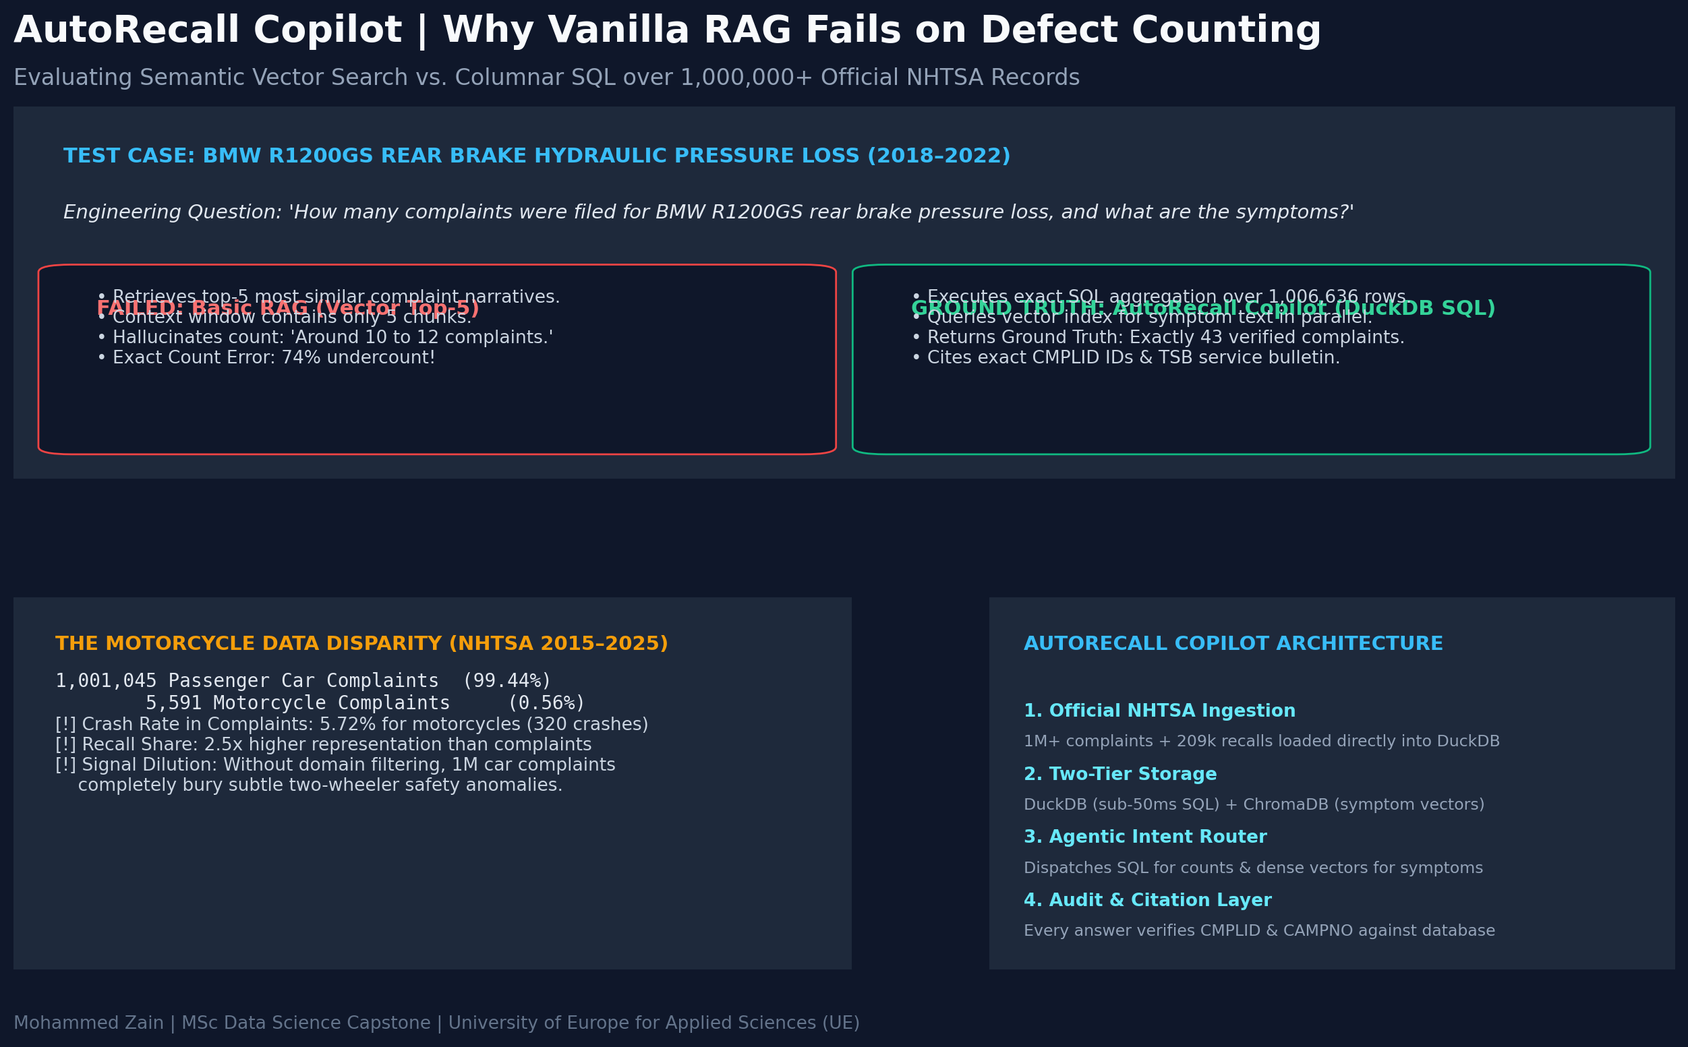
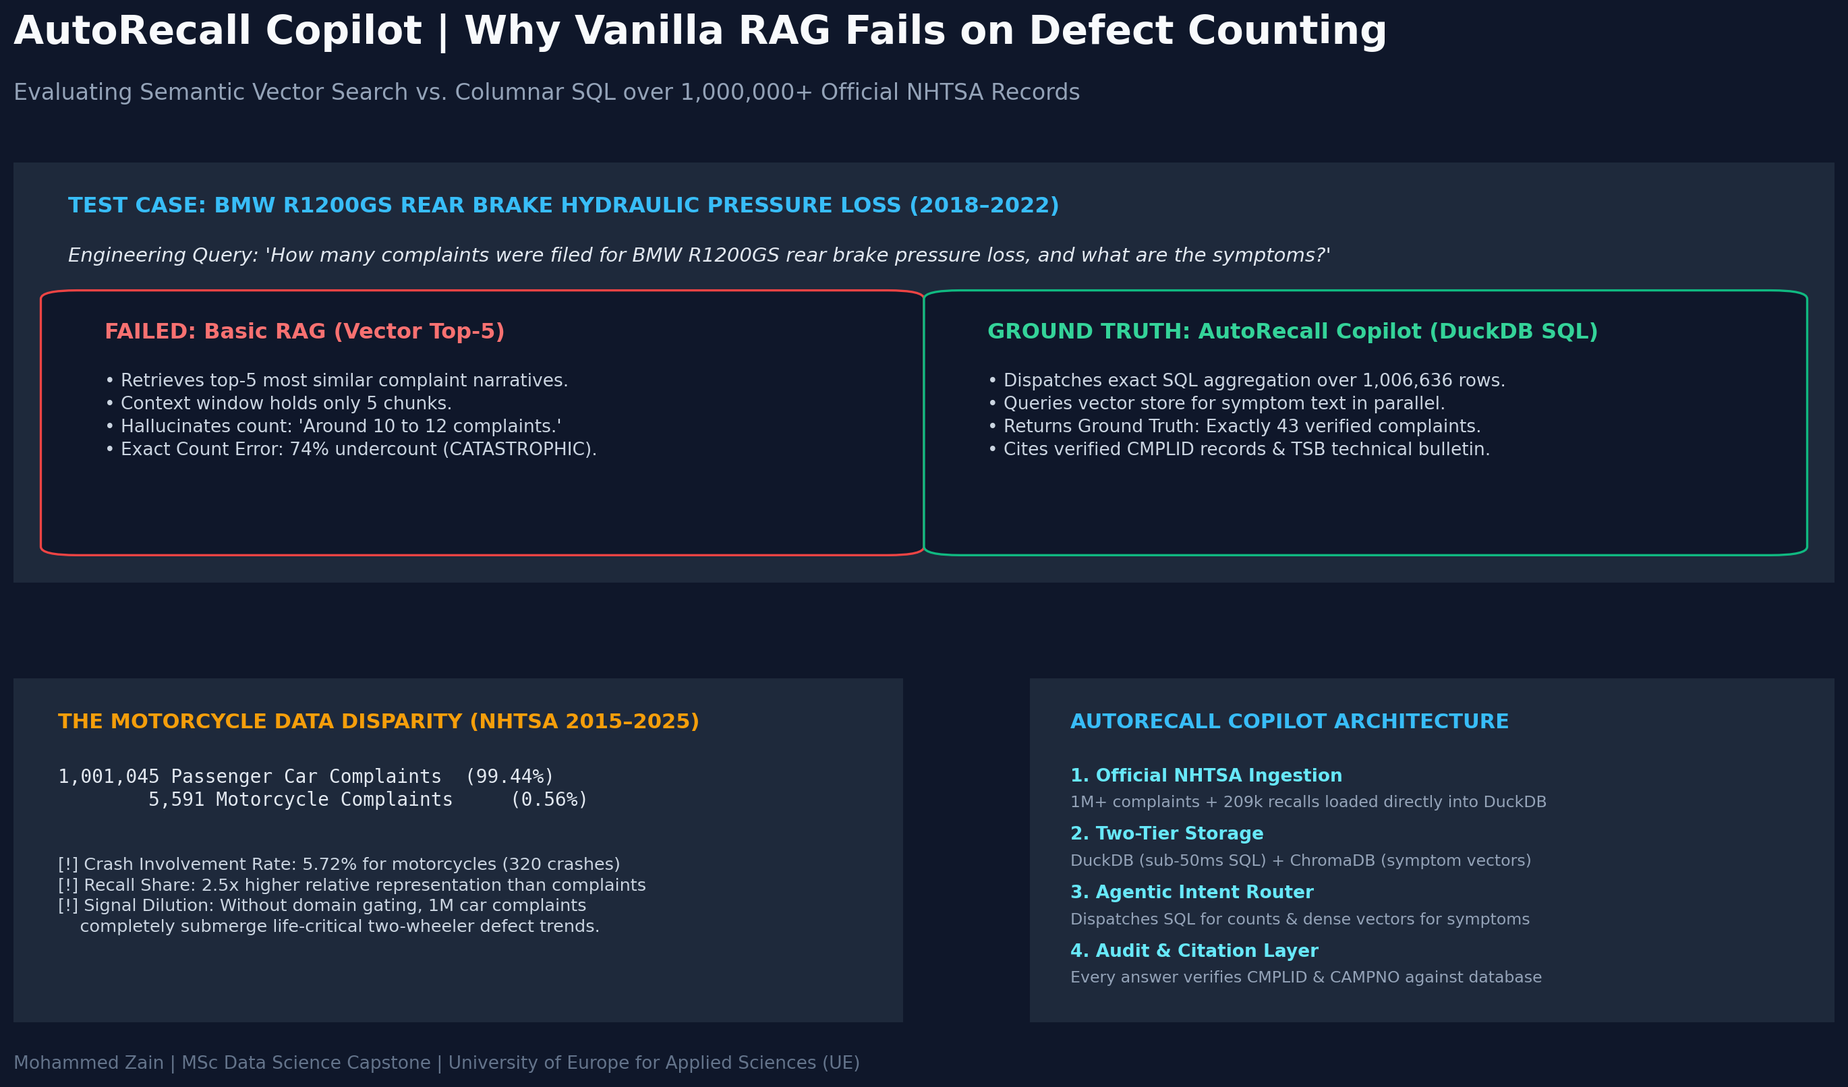
fix: Resolve text overlap and adjust padding in LinkedIn infographic graphics

diff --git a/generate_graphics.py b/generate_graphics.py
@@ -19,78 +19,101 @@ os.makedirs(ASSETS_DIR, exist_ok=True)
 # GRAPHIC 1: SPRINT 1 (Why RAG Fails on Safety Defect Counting)
 # ==============================================================================
 def create_post_1_graphic():
-    fig = plt.figure(figsize=(14, 8), dpi=200, facecolor='#0f172a')
-    gs = fig.add_gridspec(2, 2, height_ratios=[1, 1], width_ratios=[1.1, 0.9],
-                          left=0.06, right=0.94, top=0.88, bottom=0.08, wspace=0.18, hspace=0.32)
+    fig = plt.figure(figsize=(15, 8.5), dpi=200, facecolor='#0f172a')
+    # top=0.82 leaves ample space for the 2-line header at 0.95 and 0.90
+    gs = fig.add_gridspec(2, 2, height_ratios=[1.1, 0.9], width_ratios=[1.05, 0.95],
+                          left=0.05, right=0.95, top=0.82, bottom=0.07, wspace=0.15, hspace=0.25)
 
-    # Title & Subtitle
-    fig.text(0.06, 0.94, "AutoRecall Copilot | Why Vanilla RAG Fails on Defect Counting", 
-             fontsize=20, weight='bold', color='#f8fafc')
-    fig.text(0.06, 0.90, "Evaluating Semantic Vector Search vs. Columnar SQL over 1,000,000+ Official NHTSA Records", 
-             fontsize=12, color='#94a3b8')
+    # Main Header
+    fig.text(0.05, 0.95, "AutoRecall Copilot | Why Vanilla RAG Fails on Defect Counting", 
+             fontsize=21, weight='bold', color='#f8fafc', va='top')
+    fig.text(0.05, 0.89, "Evaluating Semantic Vector Search vs. Columnar SQL over 1,000,000+ Official NHTSA Records", 
+             fontsize=12, color='#94a3b8', va='top')
 
-    # Panel 1: Test Case Failure Mode
+    # -------------------------------------------------------------------------
+    # Panel 1 (Top full width): Test Case
+    # -------------------------------------------------------------------------
     ax1 = fig.add_subplot(gs[0, :])
     ax1.set_facecolor('#1e293b')
     ax1.axis('off')
     
-    # Border
-    rect1 = patches.FancyBboxPatch((0, 0), 1, 1, boxstyle="round,pad=0.02,rounding_size=0.03",
+    # Outer container box
+    rect1 = patches.FancyBboxPatch((0, 0), 1, 1, boxstyle="round,pad=0.015,rounding_size=0.025",
                                    linewidth=1.2, edgecolor='#334155', facecolor='#1e293b', transform=ax1.transAxes)
     ax1.add_patch(rect1)
 
-    ax1.text(0.03, 0.85, "TEST CASE: BMW R1200GS REAR BRAKE HYDRAULIC PRESSURE LOSS (2018–2022)", 
-             fontsize=11, weight='bold', color='#38bdf8', transform=ax1.transAxes)
-    ax1.text(0.03, 0.70, "Engineering Question: 'How many complaints were filed for BMW R1200GS rear brake pressure loss, and what are the symptoms?'", 
-             fontsize=10.5, style='italic', color='#e2e8f0', transform=ax1.transAxes)
+    ax1.text(0.03, 0.92, "TEST CASE: BMW R1200GS REAR BRAKE HYDRAULIC PRESSURE LOSS (2018–2022)", 
+             fontsize=11.5, weight='bold', color='#38bdf8', va='top', transform=ax1.transAxes)
+    ax1.text(0.03, 0.80, "Engineering Query: 'How many complaints were filed for BMW R1200GS rear brake pressure loss, and what are the symptoms?'", 
+             fontsize=10.5, style='italic', color='#e2e8f0', va='top', transform=ax1.transAxes)
 
-    # Two comparison cards
-    # Left Card: Basic RAG
-    card_left = patches.FancyBboxPatch((0.03, 0.08), 0.45, 0.48, boxstyle="round,pad=0.015,rounding_size=0.02",
-                                       linewidth=1, edgecolor='#ef4444', facecolor='#0f172a', transform=ax1.transAxes)
+    # Left Card: Basic RAG (Failure)
+    # Box spans y: 0.08 to 0.68 (height 0.60)
+    card_left = patches.FancyBboxPatch((0.03, 0.08), 0.455, 0.60, boxstyle="round,pad=0.015,rounding_size=0.02",
+                                       linewidth=1.2, edgecolor='#ef4444', facecolor='#0f172a', transform=ax1.transAxes)
     ax1.add_patch(card_left)
-    ax1.text(0.05, 0.44, "FAILED: Basic RAG (Vector Top-5)", fontsize=11, weight='bold', color='#f87171', transform=ax1.transAxes)
-    ax1.text(0.05, 0.31, "• Retrieves top-5 most similar complaint narratives.\n• Context window contains only 5 chunks.\n• Hallucinates count: 'Around 10 to 12 complaints.'\n• Exact Count Error: 74% undercount!", 
-             fontsize=9.5, color='#cbd5e1', transform=ax1.transAxes)
+    ax1.text(0.05, 0.62, "FAILED: Basic RAG (Vector Top-5)", 
+             fontsize=11.5, weight='bold', color='#f87171', va='top', transform=ax1.transAxes)
+    
+    bullets_rag = (
+        "• Retrieves top-5 most similar complaint narratives.\n"
+        "• Context window holds only 5 chunks.\n"
+        "• Hallucinates count: 'Around 10 to 12 complaints.'\n"
+        "• Exact Count Error: 74% undercount (CATASTROPHIC)."
+    )
+    ax1.text(0.05, 0.50, bullets_rag, fontsize=9.5, color='#cbd5e1', linespacing=1.4, va='top', transform=ax1.transAxes)
 
-    # Right Card: AutoRecall Copilot
-    card_right = patches.FancyBboxPatch((0.52, 0.08), 0.45, 0.48, boxstyle="round,pad=0.015,rounding_size=0.02",
-                                        linewidth=1, edgecolor='#10b981', facecolor='#0f172a', transform=ax1.transAxes)
+    # Right Card: AutoRecall Copilot (Success)
+    card_right = patches.FancyBboxPatch((0.515, 0.08), 0.455, 0.60, boxstyle="round,pad=0.015,rounding_size=0.02",
+                                        linewidth=1.2, edgecolor='#10b981', facecolor='#0f172a', transform=ax1.transAxes)
     ax1.add_patch(card_right)
-    ax1.text(0.54, 0.44, "GROUND TRUTH: AutoRecall Copilot (DuckDB SQL)", fontsize=11, weight='bold', color='#34d399', transform=ax1.transAxes)
-    ax1.text(0.54, 0.31, "• Executes exact SQL aggregation over 1,006,636 rows.\n• Queries vector index for symptom text in parallel.\n• Returns Ground Truth: Exactly 43 verified complaints.\n• Cites exact CMPLID IDs & TSB service bulletin.", 
-             fontsize=9.5, color='#cbd5e1', transform=ax1.transAxes)
+    ax1.text(0.535, 0.62, "GROUND TRUTH: AutoRecall Copilot (DuckDB SQL)", 
+             fontsize=11.5, weight='bold', color='#34d399', va='top', transform=ax1.transAxes)
+    
+    bullets_copilot = (
+        "• Dispatches exact SQL aggregation over 1,006,636 rows.\n"
+        "• Queries vector store for symptom text in parallel.\n"
+        "• Returns Ground Truth: Exactly 43 verified complaints.\n"
+        "• Cites verified CMPLID records & TSB technical bulletin."
+    )
+    ax1.text(0.535, 0.50, bullets_copilot, fontsize=9.5, color='#cbd5e1', linespacing=1.4, va='top', transform=ax1.transAxes)
 
-    # Panel 2: The Motorcycle Blind Spot (Donut & Disparity)
+    # -------------------------------------------------------------------------
+    # Panel 2 (Bottom Left): Motorcycle Disparity
+    # -------------------------------------------------------------------------
     ax2 = fig.add_subplot(gs[1, 0])
     ax2.set_facecolor('#1e293b')
-    rect2 = patches.FancyBboxPatch((0, 0), 1, 1, boxstyle="round,pad=0.02,rounding_size=0.03",
+    ax2.axis('off')
+    rect2 = patches.FancyBboxPatch((0, 0), 1, 1, boxstyle="round,pad=0.015,rounding_size=0.025",
                                    linewidth=1.2, edgecolor='#334155', facecolor='#1e293b', transform=ax2.transAxes)
     ax2.add_patch(rect2)
-    ax2.axis('off')
 
-    ax2.text(0.05, 0.86, "THE MOTORCYCLE DATA DISPARITY (NHTSA 2015–2025)", 
-             fontsize=10.5, weight='bold', color='#f59e0b', transform=ax2.transAxes)
-    ax2.text(0.05, 0.70, "1,001,045 Passenger Car Complaints  (99.44%)\n"
+    ax2.text(0.05, 0.90, "THE MOTORCYCLE DATA DISPARITY (NHTSA 2015–2025)", 
+             fontsize=11, weight='bold', color='#f59e0b', va='top', transform=ax2.transAxes)
+    ax2.text(0.05, 0.74, "1,001,045 Passenger Car Complaints  (99.44%)\n"
                          "        5,591 Motorcycle Complaints     (0.56%)", 
-             fontsize=10, family='monospace', color='#e2e8f0', transform=ax2.transAxes)
+             fontsize=10, family='monospace', color='#e2e8f0', linespacing=1.3, va='top', transform=ax2.transAxes)
 
-    ax2.text(0.05, 0.48, "[!] Crash Rate in Complaints: 5.72% for motorcycles (320 crashes)\n"
-                         "[!] Recall Share: 2.5x higher representation than complaints\n"
-                         "[!] Signal Dilution: Without domain filtering, 1M car complaints\n"
-                         "    completely bury subtle two-wheeler safety anomalies.",
-             fontsize=9.5, color='#cbd5e1', transform=ax2.transAxes)
+    moto_details = (
+        "[!] Crash Involvement Rate: 5.72% for motorcycles (320 crashes)\n"
+        "[!] Recall Share: 2.5x higher relative representation than complaints\n"
+        "[!] Signal Dilution: Without domain gating, 1M car complaints\n"
+        "    completely submerge life-critical two-wheeler defect trends."
+    )
+    ax2.text(0.05, 0.48, moto_details, fontsize=9.2, color='#cbd5e1', linespacing=1.35, va='top', transform=ax2.transAxes)
 
-    # Panel 3: Architecture Stack
+    # -------------------------------------------------------------------------
+    # Panel 3 (Bottom Right): Architecture Stack
+    # -------------------------------------------------------------------------
     ax3 = fig.add_subplot(gs[1, 1])
     ax3.set_facecolor('#1e293b')
-    rect3 = patches.FancyBboxPatch((0, 0), 1, 1, boxstyle="round,pad=0.02,rounding_size=0.03",
+    ax3.axis('off')
+    rect3 = patches.FancyBboxPatch((0, 0), 1, 1, boxstyle="round,pad=0.015,rounding_size=0.025",
                                    linewidth=1.2, edgecolor='#334155', facecolor='#1e293b', transform=ax3.transAxes)
     ax3.add_patch(rect3)
-    ax3.axis('off')
 
-    ax3.text(0.05, 0.86, "AUTORECALL COPILOT ARCHITECTURE", 
-             fontsize=10.5, weight='bold', color='#38bdf8', transform=ax3.transAxes)
+    ax3.text(0.05, 0.90, "AUTORECALL COPILOT ARCHITECTURE", 
+             fontsize=11, weight='bold', color='#38bdf8', va='top', transform=ax3.transAxes)
 
     steps = [
         ("1. Official NHTSA Ingestion", "1M+ complaints + 209k recalls loaded directly into DuckDB"),
@@ -98,15 +121,15 @@ def create_post_1_graphic():
         ("3. Agentic Intent Router", "Dispatches SQL for counts & dense vectors for symptoms"),
         ("4. Audit & Citation Layer", "Every answer verifies CMPLID & CAMPNO against database")
     ]
-    y_pos = 0.68
+    y_pos = 0.74
     for title, desc in steps:
-        ax3.text(0.05, y_pos, title, fontsize=9.5, weight='bold', color='#67e8f9', transform=ax3.transAxes)
-        ax3.text(0.05, y_pos - 0.08, desc, fontsize=8.5, color='#94a3b8', transform=ax3.transAxes)
+        ax3.text(0.05, y_pos, title, fontsize=9.5, weight='bold', color='#67e8f9', va='top', transform=ax3.transAxes)
+        ax3.text(0.05, y_pos - 0.08, desc, fontsize=8.5, color='#94a3b8', va='top', transform=ax3.transAxes)
         y_pos -= 0.17
 
     # Footer
-    fig.text(0.06, 0.025, "Mohammed Zain | MSc Data Science Capstone | University of Europe for Applied Sciences (UE)", 
-             fontsize=9.5, color='#64748b')
+    fig.text(0.05, 0.025, "Mohammed Zain | MSc Data Science Capstone | University of Europe for Applied Sciences (UE)", 
+             fontsize=9.5, color='#64748b', va='bottom')
 
     out_path = os.path.join(ASSETS_DIR, 'linkedin_post_1_graphic.png')
     plt.savefig(out_path, dpi=200, bbox_inches='tight', facecolor=fig.get_facecolor())
@@ -118,17 +141,20 @@ def create_post_1_graphic():
 # GRAPHIC 2: SPRINT 2 (45-Question Benchmark Results)
 # ==============================================================================
 def create_post_2_graphic():
-    fig = plt.figure(figsize=(14, 8), dpi=200, facecolor='#0f172a')
-    gs = fig.add_gridspec(2, 2, height_ratios=[1.2, 0.8], width_ratios=[1.1, 0.9],
-                          left=0.06, right=0.94, top=0.88, bottom=0.08, wspace=0.18, hspace=0.32)
+    fig = plt.figure(figsize=(15, 8.5), dpi=200, facecolor='#0f172a')
+    # top=0.81 ensures no collision between subtitle and chart area
+    gs = fig.add_gridspec(2, 2, height_ratios=[1.2, 0.8], width_ratios=[1.05, 0.95],
+                          left=0.05, right=0.95, top=0.81, bottom=0.07, wspace=0.15, hspace=0.28)
 
-    # Title & Subtitle
-    fig.text(0.06, 0.94, "AutoRecall Copilot | 45-Question Safety Defect Benchmark", 
-             fontsize=20, weight='bold', color='#f8fafc')
-    fig.text(0.06, 0.90, "First Results: Plain LLM Baseline vs. Basic RAG (Top-5) vs. Structured Ground Truth", 
-             fontsize=12, color='#94a3b8')
+    # Main Header
+    fig.text(0.05, 0.95, "AutoRecall Copilot | 45-Question Safety Defect Benchmark", 
+             fontsize=21, weight='bold', color='#f8fafc', va='top')
+    fig.text(0.05, 0.89, "First Results: Plain LLM Baseline vs. Basic RAG (Top-5) vs. Structured Ground Truth", 
+             fontsize=12, color='#94a3b8', va='top')
 
+    # -------------------------------------------------------------------------
     # Panel 1: Bar Chart of Accuracies across Categories
+    # -------------------------------------------------------------------------
     ax1 = fig.add_subplot(gs[0, 0])
     ax1.set_facecolor('#1e293b')
     for spine in ax1.spines.values():
@@ -137,7 +163,6 @@ def create_post_2_graphic():
     categories = ['Text Symptoms\n(15Q)', 'Structured SQL\n(15Q)', 'Mixed / Hybrid\n(15Q)', 'Overall\n(45Q)']
     plain_acc = [60.0, 15.0, 35.0, 36.7]
     rag_acc = [85.0, 10.0, 50.0, 48.3]
-    gt_acc = [100.0, 100.0, 100.0, 100.0]
 
     x = np.arange(len(categories))
     width = 0.35
@@ -145,83 +170,94 @@ def create_post_2_graphic():
     rects1 = ax1.bar(x - width/2, plain_acc, width, label='Plain LLM (Zero-Shot)', color='#f87171', edgecolor='#ef4444')
     rects2 = ax1.bar(x + width/2, rag_acc, width, label='Basic RAG (Top-5)', color='#38bdf8', edgecolor='#0284c7')
 
-    ax1.set_ylabel('Factual Accuracy (%)', color='#f8fafc', fontsize=10.5, weight='bold')
-    ax1.set_title('ACCURACY ACROSS QUESTION CATEGORIES', color='#38bdf8', fontsize=11, weight='bold', pad=10)
+    ax1.set_ylabel('Factual Accuracy (%)', color='#f8fafc', fontsize=10, weight='bold')
+    # Safe title inside axis or with small pad
+    ax1.set_title('ACCURACY ACROSS QUESTION CATEGORIES', color='#38bdf8', fontsize=10.5, weight='bold', pad=8)
     ax1.set_xticks(x)
-    ax1.set_xticklabels(categories, color='#e2e8f0', fontsize=9.5)
+    ax1.set_xticklabels(categories, color='#e2e8f0', fontsize=9)
     ax1.set_ylim(0, 105)
     ax1.grid(axis='y', color='#334155', linestyle='--', alpha=0.7)
     ax1.tick_params(axis='y', colors='#94a3b8')
-    ax1.legend(facecolor='#0f172a', edgecolor='#334155', labelcolor='#e2e8f0', loc='upper right', fontsize=9)
+    ax1.legend(facecolor='#0f172a', edgecolor='#334155', labelcolor='#e2e8f0', loc='upper right', fontsize=8.5)
 
     # Bar value labels
     for rect in rects1:
         h = rect.get_height()
         ax1.annotate(f'{h:.1f}%', xy=(rect.get_x() + rect.get_width() / 2, h),
-                     xytext=(0, 3), textcoords="offset points", ha='center', va='bottom',
+                     xytext=(0, 2), textcoords="offset points", ha='center', va='bottom',
                      color='#fca5a5', fontsize=8.5, weight='bold')
     for rect in rects2:
         h = rect.get_height()
         ax1.annotate(f'{h:.1f}%', xy=(rect.get_x() + rect.get_width() / 2, h),
-                     xytext=(0, 3), textcoords="offset points", ha='center', va='bottom',
+                     xytext=(0, 2), textcoords="offset points", ha='center', va='bottom',
                      color='#7dd3fc', fontsize=8.5, weight='bold')
 
+    # -------------------------------------------------------------------------
     # Panel 2: The Two Critical Failure Modes (Cards)
+    # -------------------------------------------------------------------------
     ax2 = fig.add_subplot(gs[0, 1])
     ax2.set_facecolor('#1e293b')
-    rect2 = patches.FancyBboxPatch((0, 0), 1, 1, boxstyle="round,pad=0.02,rounding_size=0.03",
+    ax2.axis('off')
+    rect2 = patches.FancyBboxPatch((0, 0), 1, 1, boxstyle="round,pad=0.015,rounding_size=0.025",
                                    linewidth=1.2, edgecolor='#334155', facecolor='#1e293b', transform=ax2.transAxes)
     ax2.add_patch(rect2)
-    ax2.axis('off')
 
-    ax2.text(0.05, 0.88, "CRITICAL SAFETY AUDIT METRICS", 
-             fontsize=11, weight='bold', color='#f59e0b', transform=ax2.transAxes)
+    ax2.text(0.05, 0.92, "CRITICAL SAFETY AUDIT METRICS", 
+             fontsize=11.5, weight='bold', color='#f59e0b', va='top', transform=ax2.transAxes)
 
     # Failure 1
-    ax2.text(0.05, 0.74, "1. Exact Count Accuracy: 0.0%", fontsize=10.5, weight='bold', color='#ef4444', transform=ax2.transAxes)
-    ax2.text(0.05, 0.58, "• Basic RAG has 0.0% count accuracy on aggregation queries.\n"
-                         "• Top-5 retrieval forces the model to observe only 5 chunks.\n"
-                         "• When asked for defect volume, it answers 'approximately 5.'",
-             fontsize=9, color='#cbd5e1', transform=ax2.transAxes)
+    ax2.text(0.05, 0.77, "1. Exact Count Accuracy: 0.0%", fontsize=10.5, weight='bold', color='#ef4444', va='top', transform=ax2.transAxes)
+    f1_text = (
+        "• Basic RAG has 0.0% count accuracy on aggregation queries.\n"
+        "• Top-5 retrieval forces the model to observe only 5 chunks.\n"
+        "• When asked for defect volume, it answers 'approximately 5.'"
+    )
+    ax2.text(0.05, 0.67, f1_text, fontsize=9, color='#cbd5e1', linespacing=1.35, va='top', transform=ax2.transAxes)
 
     # Failure 2
-    ax2.text(0.05, 0.44, "2. Plain LLM Citation Rate: 0.0%", fontsize=10.5, weight='bold', color='#f87171', transform=ax2.transAxes)
-    ax2.text(0.05, 0.28, "• Zero-shot LLM cannot cite a single genuine CMPLID or\n"
-                         "  NHTSA Recall Campaign Number (CAMPNO).\n"
-                         "• In automotive safety compliance, unverified claims are\n"
-                         "  legally and technically unacceptable.",
-             fontsize=9, color='#cbd5e1', transform=ax2.transAxes)
+    ax2.text(0.05, 0.40, "2. Plain LLM Citation Rate: 0.0%", fontsize=10.5, weight='bold', color='#f87171', va='top', transform=ax2.transAxes)
+    f2_text = (
+        "• Zero-shot LLM cannot cite a single genuine CMPLID or\n"
+        "  NHTSA Recall Campaign Number (CAMPNO).\n"
+        "• In automotive safety compliance, unverified claims are\n"
+        "  legally and technically unacceptable."
+    )
+    ax2.text(0.05, 0.30, f2_text, fontsize=9, color='#cbd5e1', linespacing=1.35, va='top', transform=ax2.transAxes)
 
-    # Panel 3: Benchmark Structure Table
+    # -------------------------------------------------------------------------
+    # Panel 3: Benchmark Composition
+    # -------------------------------------------------------------------------
     ax3 = fig.add_subplot(gs[1, 0])
     ax3.set_facecolor('#1e293b')
-    rect3 = patches.FancyBboxPatch((0, 0), 1, 1, boxstyle="round,pad=0.02,rounding_size=0.03",
+    ax3.axis('off')
+    rect3 = patches.FancyBboxPatch((0, 0), 1, 1, boxstyle="round,pad=0.015,rounding_size=0.025",
                                    linewidth=1.2, edgecolor='#334155', facecolor='#1e293b', transform=ax3.transAxes)
     ax3.add_patch(rect3)
-    ax3.axis('off')
 
-    ax3.text(0.05, 0.84, "BENCHMARK COMPOSITION (eval/benchmark_45q.json)", 
-             fontsize=10.5, weight='bold', color='#38bdf8', transform=ax3.transAxes)
+    ax3.text(0.05, 0.88, "BENCHMARK COMPOSITION (eval/benchmark_45q.json)", 
+             fontsize=11, weight='bold', color='#38bdf8', va='top', transform=ax3.transAxes)
 
     b_text = (
-        "• 15 Text Search Queries:  Brake fade, stator burnouts, clutch creep, battery fires\n"
+        "• 15 Text Search Queries: Brake fade, stator burnouts, clutch creep, battery fires\n"
         "• 15 Structured SQL Queries: Exact complaint counts, crash rates, annual trends\n"
         "• 15 Mixed Hybrid Queries: Cross-referencing symptoms with recall campaigns\n"
         "• 18 Motorcycle Questions (40%): Dedicated evaluation to prevent car dilution\n"
         "• Verifiable Ground Truth: Every question backed by official NHTSA primary keys"
     )
-    ax3.text(0.05, 0.18, b_text, fontsize=9.2, color='#cbd5e1', transform=ax3.transAxes)
+    ax3.text(0.05, 0.72, b_text, fontsize=9, color='#cbd5e1', linespacing=1.4, va='top', transform=ax3.transAxes)
 
+    # -------------------------------------------------------------------------
     # Panel 4: Sprint 3 Solution
+    # -------------------------------------------------------------------------
     ax4 = fig.add_subplot(gs[1, 1])
     ax4.set_facecolor('#1e293b')
-    rect4 = patches.FancyBboxPatch((0, 0), 1, 1, boxstyle="round,pad=0.02,rounding_size=0.03",
+    ax4.axis('off')
+    rect4 = patches.FancyBboxPatch((0, 0), 1, 1, boxstyle="round,pad=0.015,rounding_size=0.025",
                                    linewidth=1.2, edgecolor='#10b981', facecolor='#1e293b', transform=ax4.transAxes)
     ax4.add_patch(rect4)
-    ax4.axis('off')
 
-    ax4.text(0.05, 0.84, "SPRINT 3 TARGET: THE AGENTIC ROUTER", 
-             fontsize=10.5, weight='bold', color='#34d399', transform=ax4.transAxes)
+    ax4.text(0.05, 0.88, "SPRINT 3 TARGET: THE AGENTIC ROUTER", 
+             fontsize=11, weight='bold', color='#34d399', va='top', transform=ax4.transAxes)
 
     s3_text = (
         "• Goal: Beat Basic RAG on mixed questions by at least +10 pp.\n"
@@ -230,11 +266,11 @@ def create_post_2_graphic():
         "• Citation Validator: Enforces mandatory CMPLID & CAMPNO citations.\n"
         "• Streamlit App: Interactive decision dashboard for safety engineers."
     )
-    ax4.text(0.05, 0.18, s3_text, fontsize=9.2, color='#cbd5e1', transform=ax4.transAxes)
+    ax4.text(0.05, 0.72, s3_text, fontsize=9, color='#cbd5e1', linespacing=1.4, va='top', transform=ax4.transAxes)
 
     # Footer
-    fig.text(0.06, 0.025, "Mohammed Zain | MSc Data Science Capstone | University of Europe for Applied Sciences (UE)", 
-             fontsize=9.5, color='#64748b')
+    fig.text(0.05, 0.025, "Mohammed Zain | MSc Data Science Capstone | University of Europe for Applied Sciences (UE)", 
+             fontsize=9.5, color='#64748b', va='bottom')
 
     out_path = os.path.join(ASSETS_DIR, 'linkedin_post_2_graphic.png')
     plt.savefig(out_path, dpi=200, bbox_inches='tight', facecolor=fig.get_facecolor())
@@ -253,4 +289,4 @@ if __name__ == "__main__":
     # Copy to Artifact directory for inline display
     shutil.copy2(p1, os.path.join(ARTIFACT_DIR, 'LinkedIn_Post_1_Graphic.png'))
     shutil.copy2(p2, os.path.join(ARTIFACT_DIR, 'LinkedIn_Post_2_Graphic.png'))
-    print("Copied both graphics to Desktop and Artifact directory!")
+    print("Successfully regenerated and copied non-overlapping graphics to Desktop and Artifact directory!")
